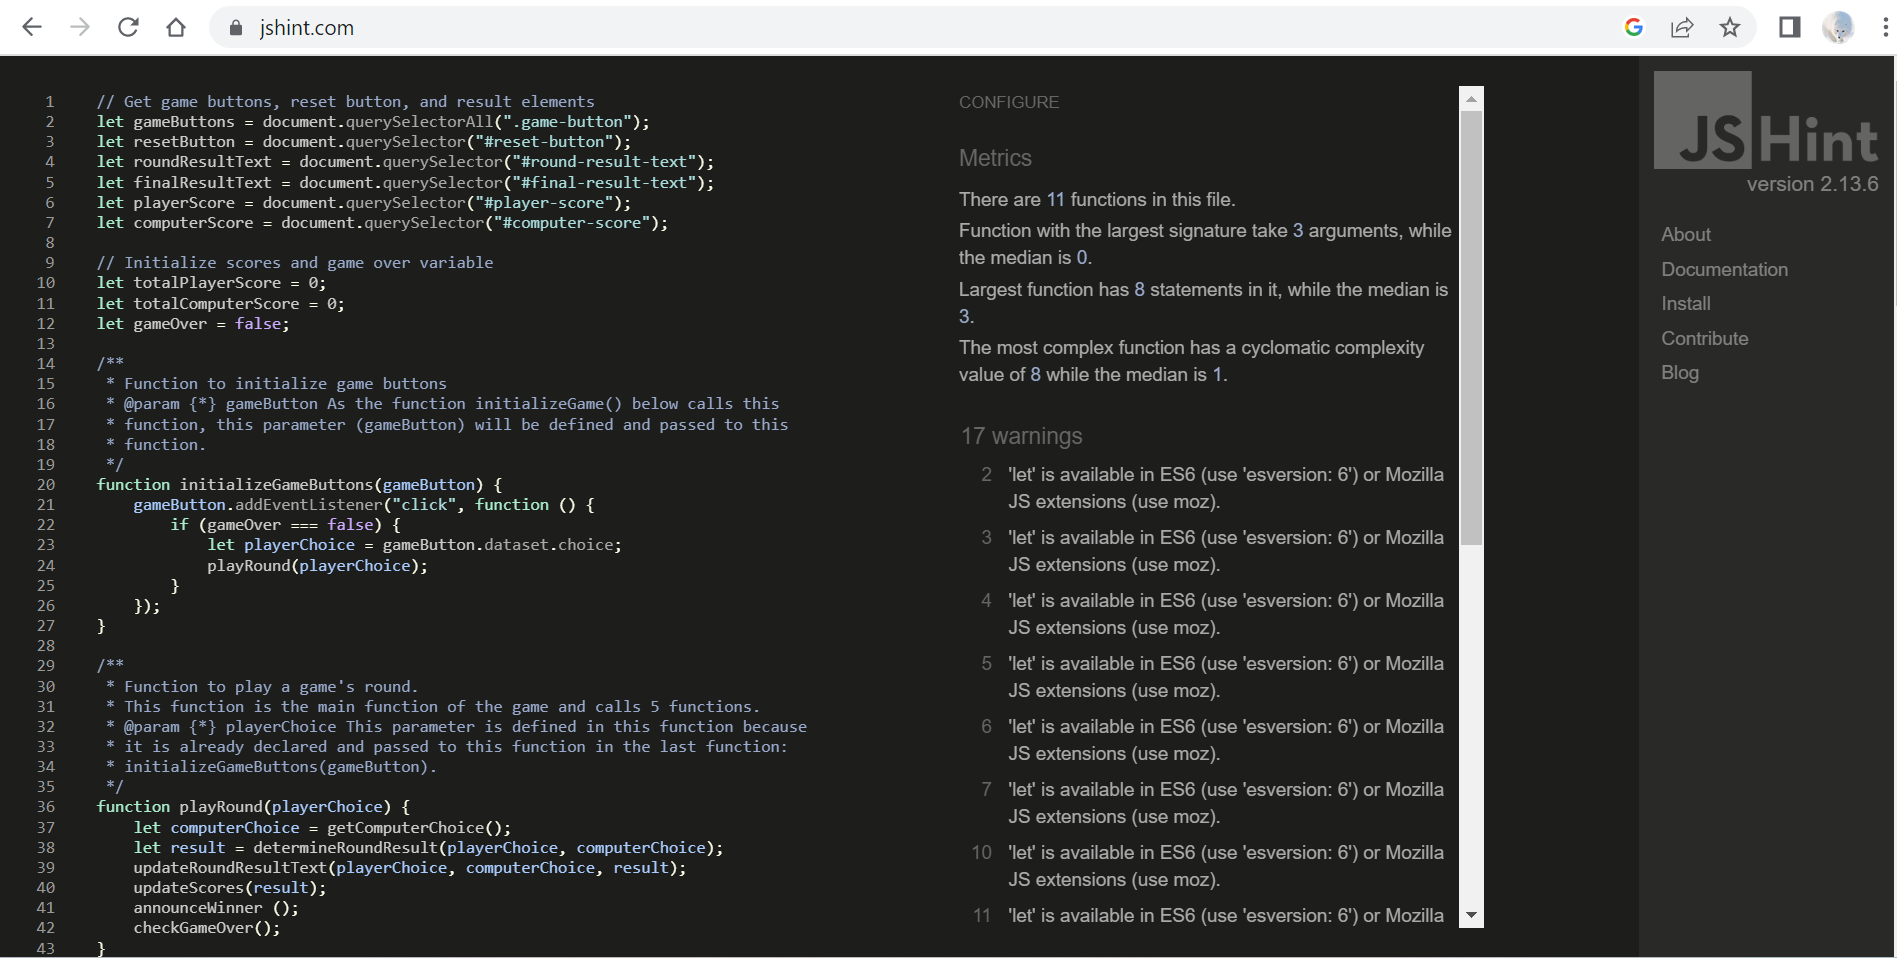
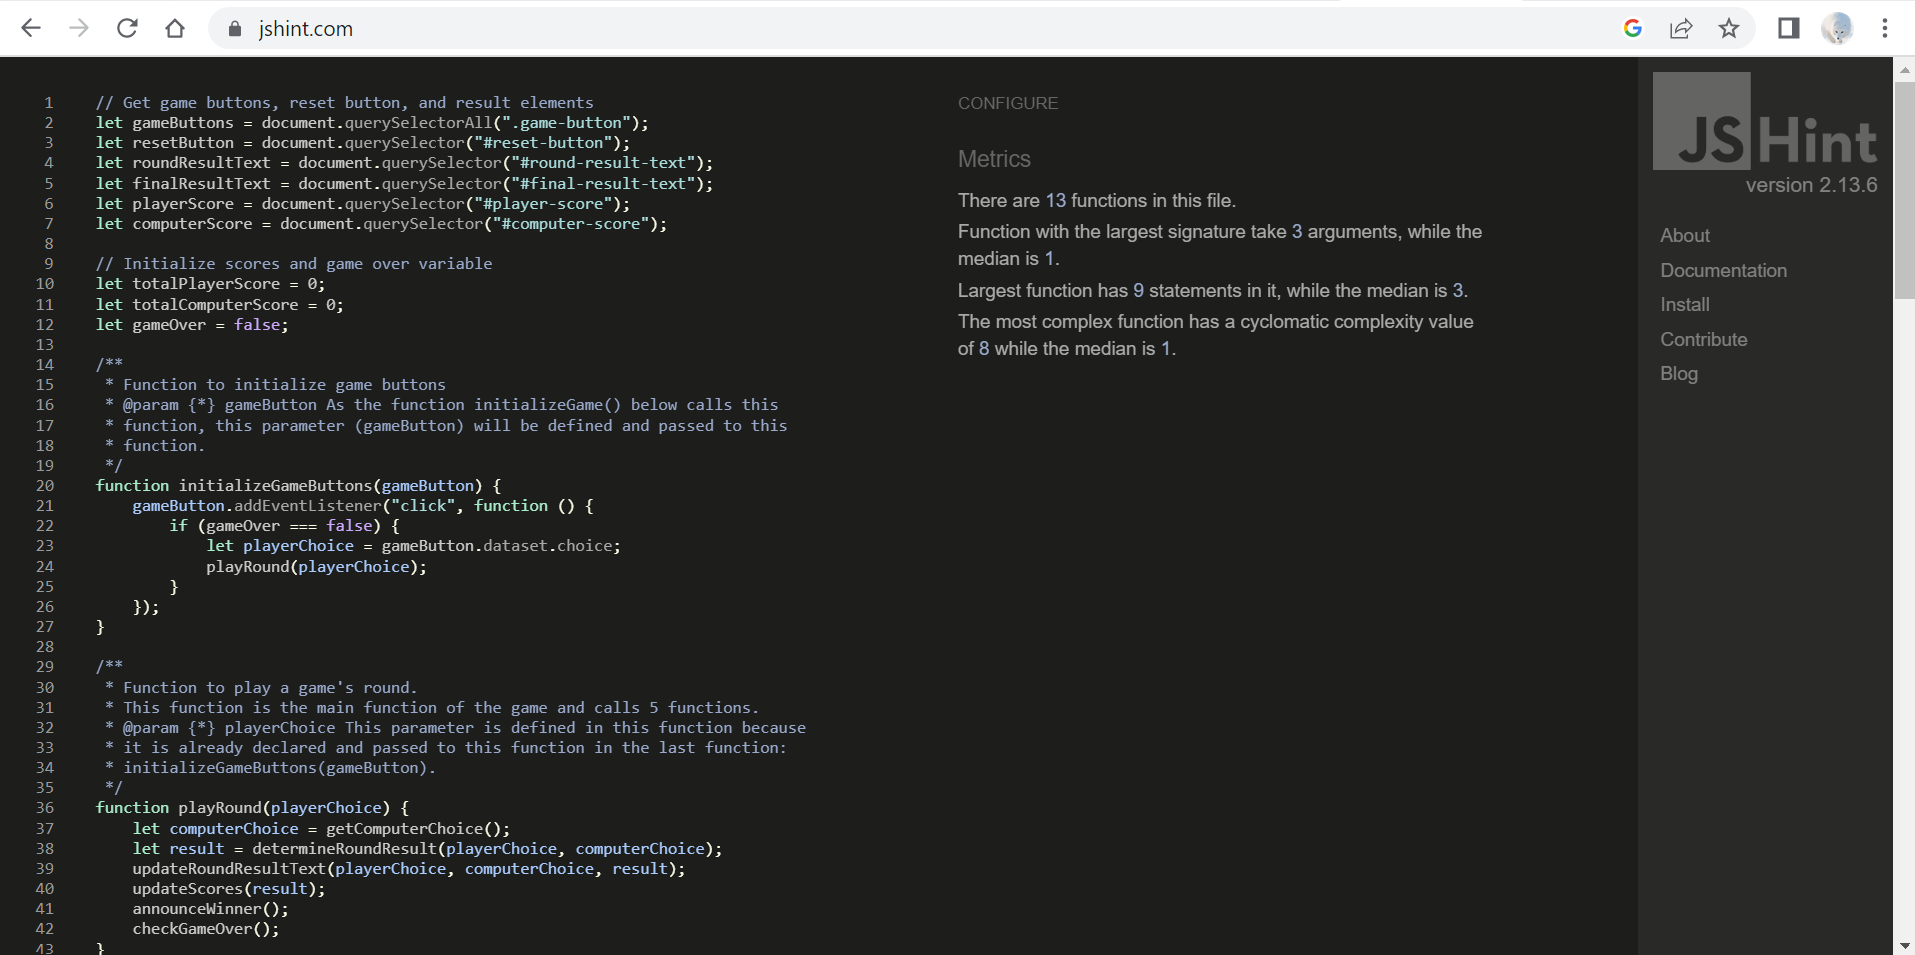
docs: assume new js features ES6 in JS Hint and revalidate the script.js file accordingly

diff --git a/README.md b/README.md
@@ -231,15 +231,11 @@
 ## 7. 3. script.js File
 
 - Taking advantage of JSHint, I validated the script.js file of the game; 17 warnings were issued.
-- Kindly inspect the 4 images of this validation further down.
+- Kindly inspect this validation's two images further down.
 
 ![Image 1 of the validation of the script.js file](readme-images/code-validation-js-1.png)
 
 ![Image 2 of the validation of the script.js file](readme-images/code-validation-js-2.png)
-
-![Image 3 of the validation of the script.js file](readme-images/code-validation-js-3.png)
-
-![Image 4 of the validation of the script.js file](readme-images/code-validation-js-4.png)
 
 ## 7. 4. Google Lighthouse Report
 
@@ -306,7 +302,7 @@
 - Actual Result: The actual result is identical to the expected result.
 - An image beneath registered that the game buttons are disabled as a player or the computer wins a game.
 
-![An image documenting that the game buttons are disabled as a player or the computer wins a game](readme-images/buttons-disabled.png)
+![An image documenting that the game buttons are disabled as a player or the computer wins a game](readme-images/testing-disabling-game-buttons.png)
 
 ## 8. 5. Testing the "Reset and Play Again" Button
 
